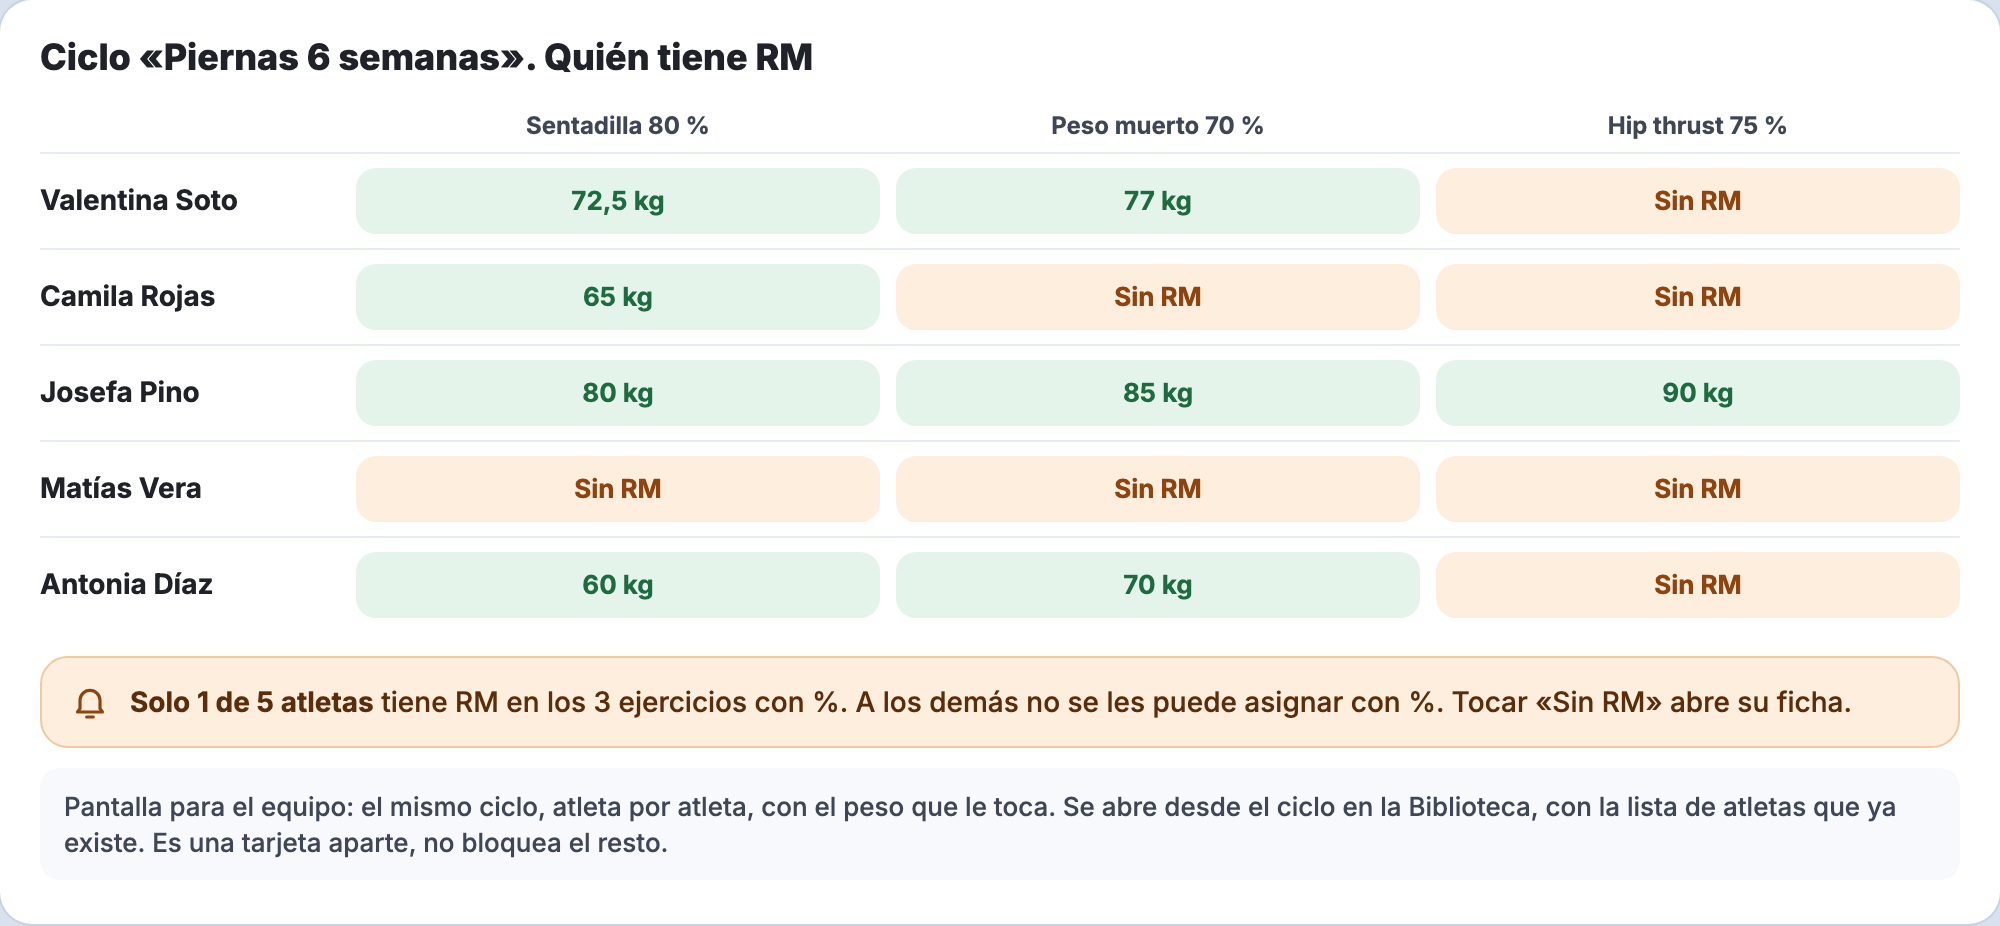
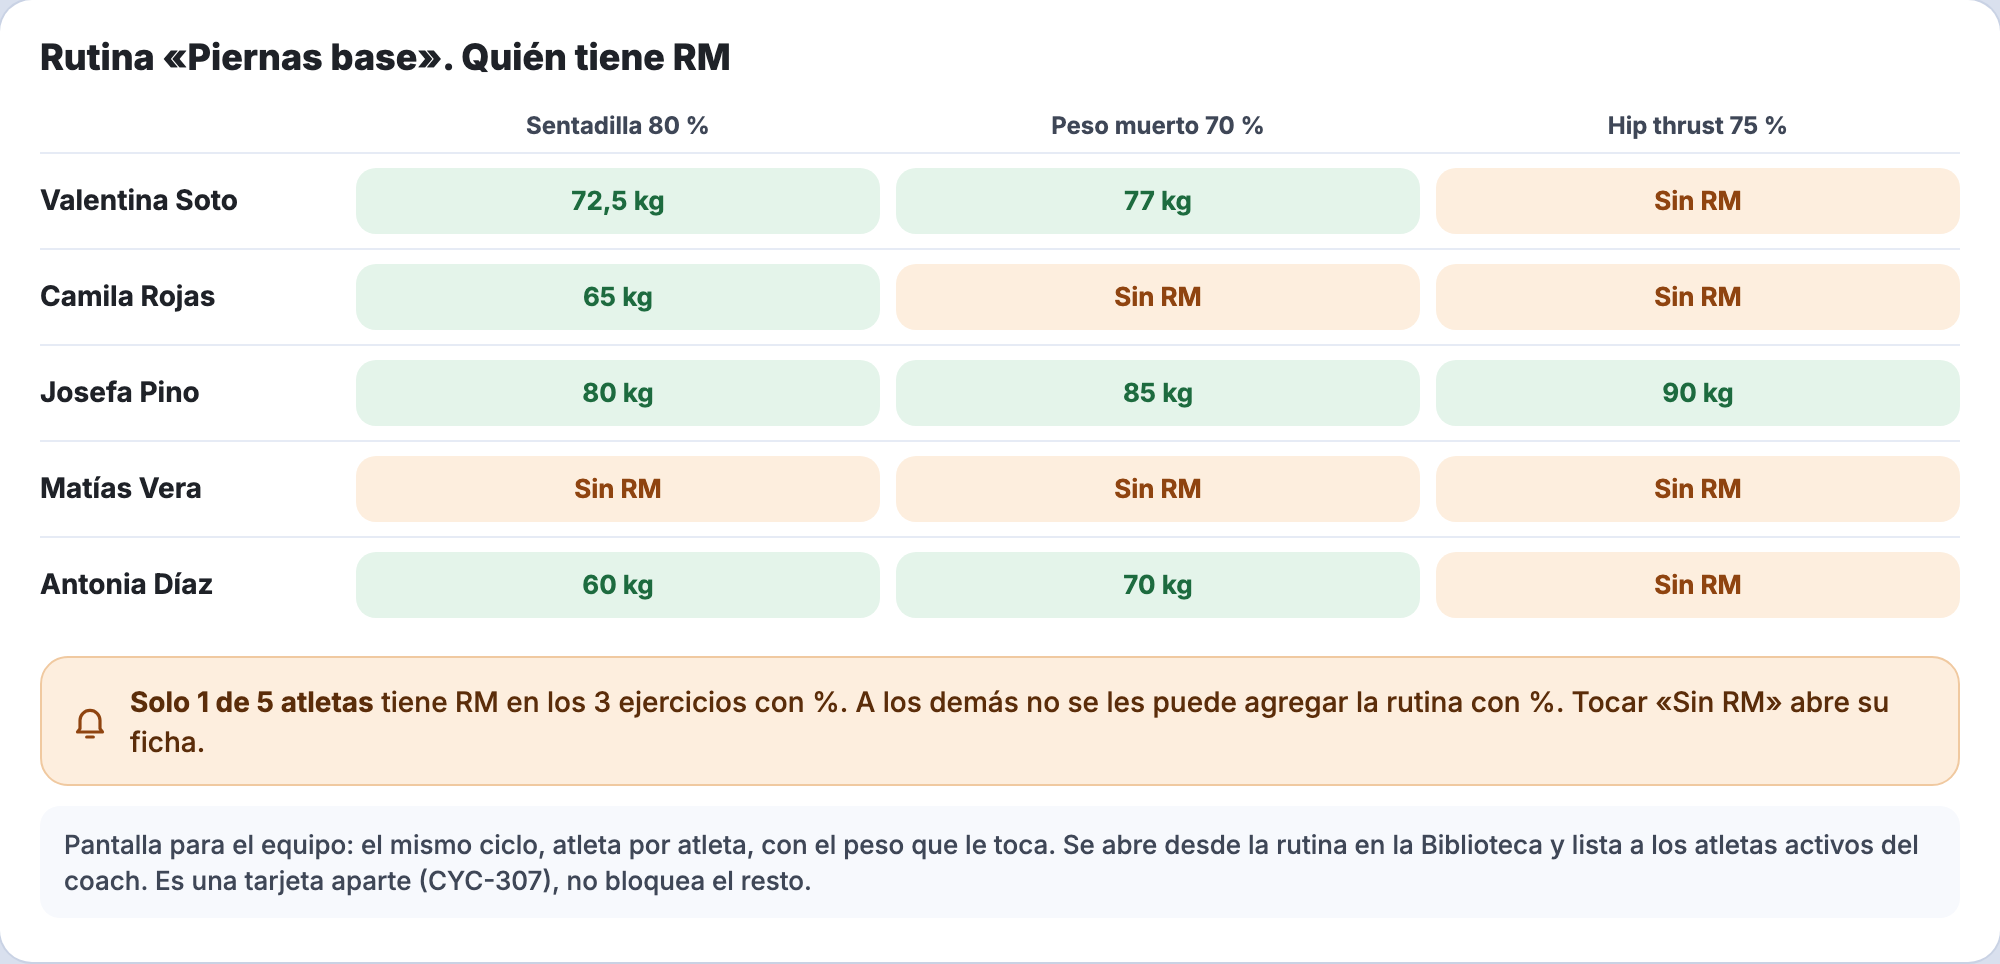
CYC-305: la comprobación de RM va al agregar una rutina a una celda, no al asignar el ciclo

diff --git a/docs/diseno/rm-porcentaje/propuestas.html b/docs/diseno/rm-porcentaje/propuestas.html
@@ -352,7 +352,7 @@ function webB(){
   ${row2('Sentadilla',4,{v:6,u:'r'},{v:80,u:'%'},'',{desc:120,rir:2})}
   ${row2('Hip thrust',3,{v:10,u:'r'},{v:75,u:'%'},'',{desc:90,rir:2})}
  </div>
- <div class="wnote">Una rutina o un ciclo plantilla no tiene atleta: no hay RM contra el cual comprobar, así que «% del RM» se ofrece en cualquier ejercicio con carga y el peso no se muestra. La comprobación llega al asignar (siguiente pantalla) y en la sesión de cada atleta.</div></div>`;
+ <div class="wnote">Una rutina o un ciclo plantilla no tiene atleta: no hay RM contra el cual comprobar, así que «% del RM» se ofrece en cualquier ejercicio con carga y el peso no se muestra. La comprobación llega al agregar la rutina a la sesión de un atleta (pantalla siguiente).</div></div>`;
 }
 function webAT(){
  return `<div class="web" style="min-height:360px"><div class="wt">Rutina «Piernas base»</div>
@@ -398,29 +398,29 @@ function modalCambio(){
 }
 // ---------- WEB: asignar y cobertura ----------
 function asignar(){
- return `<div class="web nar" style="min-height:560px"><div class="wt">Asignar ciclo de la Biblioteca</div>
- <div class="fld"><b>Ciclo</b><div class="uf" style="width:100%"><div class="v" style="justify-content:start;padding:0 12px">Piernas 6 semanas</div><div class="u">${ic('chev')}</div></div></div>
- <div class="fld"><b>Atleta</b><div class="uf" style="width:100%"><div class="v" style="justify-content:start;padding:0 12px">Camila Rojas</div><div class="u">${ic('chev')}</div></div></div>
- <div class="fld"><b>Fecha de inicio</b><div class="f" style="justify-content:start;padding:0 12px;width:200px">24 nov 2026</div></div>
+ return `<div class="web nar" style="min-height:560px"><div class="wt">Agregar rutina a la sesión</div>
+ <div class="fld"><b>Atleta</b><div class="f" style="justify-content:start;padding:0 12px;width:100%">Camila Rojas</div></div>
+ <div class="fld"><b>Rutina</b><div class="uf" style="width:100%"><div class="v" style="justify-content:start;padding:0 12px">Piernas base</div><div class="u">${ic('chev')}</div></div></div>
+ <div class="fld"><b>Celda</b><div class="f" style="justify-content:start;padding:0 12px;width:260px">Semana 2, sesión 1</div></div>
  <div class="alr" style="display:block"><b>Camila no tiene RM en Peso muerto ni en Hip thrust.</b> Sin RM no se puede usar % del RM en esos ejercicios.
-  <div class="rd"><i class="on"></i><span><b>Ingresar su RM ahora</b> Se abre su ficha; al volver, el ciclo se asigna con %.</span></div>
-  <div class="rd"><i></i><span><b>Asignar con peso fijo en esos ejercicios</b></span></div>
+  <div class="rd"><i class="on"></i><span><b>Ingresar su RM ahora</b> Se abre su ficha; al volver, la rutina se agrega con %.</span></div>
+  <div class="rd"><i></i><span><b>Usar peso fijo en esos ejercicios</b></span></div>
   <div style="display:flex;gap:10px;margin:8px 0 0 28px"><div style="flex:1"><div class="flab">Peso muerto</div><div class="f ph2" style="margin-top:4px;justify-content:start;padding:0 10px">kg</div></div><div style="flex:1"><div class="flab">Hip thrust</div><div class="f ph2" style="margin-top:4px;justify-content:start;padding:0 10px">kg</div></div></div></div>
- <span class="bn off" style="height:46px;padding:0 24px;margin-top:12px">Asignar</span>
- <div class="wnote" style="margin-top:12px">«Asignar» se activa cuando cada ejercicio con % tiene RM o un peso fijo. La misma comprobación aparece al agregar una rutina a una celda de la sesión de un atleta.</div></div>`;
+ <span class="bn off" style="height:46px;padding:0 24px;margin-top:12px">Agregar</span>
+ <div class="wnote" style="margin-top:12px">«Agregar» se activa cuando cada ejercicio con % tiene RM o un peso fijo. Asignar el ciclo de la Biblioteca solo copia el ciclo vacío, así que ahí no hay nada que comprobar: el % llega con la rutina.</div></div>`;
 }
 function cobertura(){
  const c=(t,ok)=>`<div class="cv ${ok?'ok':'no'}">${t}</div>`;
  const r=(n,a,b,c3)=>`<div class="cr"><b>${n}</b>${a}${b}${c3}</div>`;
- return `<div class="web" style="min-height:420px"><div class="wt">Ciclo «Piernas 6 semanas». Quién tiene RM</div>
+ return `<div class="web" style="min-height:420px"><div class="wt">Rutina «Piernas base». Quién tiene RM</div>
  <div class="cr h"><span></span><span>Sentadilla 80 %</span><span>Peso muerto 70 %</span><span>Hip thrust 75 %</span></div>
  ${r('Valentina Soto',c('72,5 kg',1),c('77 kg',1),c('Sin RM',0))}
  ${r('Camila Rojas',c('65 kg',1),c('Sin RM',0),c('Sin RM',0))}
  ${r('Josefa Pino',c('80 kg',1),c('85 kg',1),c('90 kg',1))}
  ${r('Matías Vera',c('Sin RM',0),c('Sin RM',0),c('Sin RM',0))}
  ${r('Antonia Díaz',c('60 kg',1),c('70 kg',1),c('Sin RM',0))}
- <div class="alr" style="margin-top:12px">${ic('bell')}<span><b>Solo 1 de 5 atletas</b> tiene RM en los 3 ejercicios con %. A los demás no se les puede asignar con %. Tocar «Sin RM» abre su ficha.</span></div>
- <div class="wnote">Pantalla para el equipo: el mismo ciclo, atleta por atleta, con el peso que le toca. Se abre desde el ciclo en la Biblioteca, con la lista de atletas que ya existe. Es una tarjeta aparte, no bloquea el resto.</div></div>`;
+ <div class="alr" style="margin-top:12px">${ic('bell')}<span><b>Solo 1 de 5 atletas</b> tiene RM en los 3 ejercicios con %. A los demás no se les puede agregar la rutina con %. Tocar «Sin RM» abre su ficha.</span></div>
+ <div class="wnote">Pantalla para el equipo: el mismo ciclo, atleta por atleta, con el peso que le toca. Se abre desde la rutina en la Biblioteca y lista a los atletas activos del coach. Es una tarjeta aparte (CYC-307), no bloquea el resto.</div></div>`;
 }
 // ---------- WEB: atleta ----------
 function webAtleta(){
@@ -480,9 +480,9 @@ add('r2','2 · Coach en la web: elegir «peso fijo» o «% del RM» por fila',[
  ['A · Con un atleta en la vista previa: «% del RM» se desactiva donde no hay RM (recomendada)',webA()],
  ['Rutina o plantilla sin atleta: «% del RM» se ofrece y se comprueba al asignar',webB()],
  ['Ejercicio por tiempo: la carga queda en kg (convive con CYC-296)',webAT()]]);
-add('r3','3 · Coach en la web: asignar con atletas que no tienen todos los RM',[
- ['Asignar un ciclo a un atleta sin RM en algunos ejercicios: ingresar el RM o usar peso fijo',asignar()],
- ['Equipo: quién tiene RM en cada ejercicio con %',cobertura()]]);
+add('r3','3 · Coach en la web: agregar una rutina a atletas que no tienen todos los RM',[
+ ['Agregar una rutina a la sesión de un atleta sin RM en algunos ejercicios: ingresar el RM o usar peso fijo',asignar()],
+ ['Equipo: quién tiene RM en cada ejercicio de una rutina con %',cobertura()]]);
 add('r4','4 · Atleta en la app',[
  ['Hoy: el peso ya calculado',hoy()],
  ['Registro de una serie, con RM',logRM()],

diff --git a/docs/diseno/rm-porcentaje/README.md b/docs/diseno/rm-porcentaje/README.md
@@ -21,7 +21,7 @@ updated: 2026-11-20
 
 - La carga es un peso fijo y opcional: `RoutineExercise.defaultWeight`, `SessionExercise.targetWeight`, `ExerciseLog.actualWeight` (siempre en kg; nulo = peso corporal). No existe RM ni carga relativa.
 - Una rutina es del coach, no de un atleta. Al asignarla a una celda de un ciclo, sus filas se **copian** a `SessionExercise`, que sí pertenece al ciclo de un atleta ([`sessions.service.ts`](../../../apps/api/src/sessions/sessions.service.ts) línea 92).
-- Hoy un ciclo de la Biblioteca se asigna **a un atleta a la vez** (selector de atleta y fecha). Este diseño no agrega asignación masiva: «varios atletas» significa el mismo ciclo asignado a cada uno, y cada uno recibe su propio peso.
+- Hoy un ciclo de la Biblioteca se asigna **a un atleta a la vez** y solo copia el ciclo **vacío** (`cycles.service.ts`, `assign`): las sesiones se arman después, agregando una rutina a una celda de la sesión de ese atleta. Por eso el % vive en las **rutinas** y en las **sesiones de un atleta**, no en el ciclo plantilla. «Varios atletas» significa la misma rutina agregada a la sesión de cada uno, y cada uno recibe su propio peso. No se agrega asignación masiva.
 - La fila del constructor tiene Ser., Reps, Carga, Desc. y RIR ([`ExerciseRowEditor.tsx`](../../../apps/web/src/components/builder/ExerciseRowEditor.tsx)). La app prellena el peso con `targetWeight` y muestra «4 × 6 · 60 kg» en Hoy.
 - Los ejercicios de peso corporal (`isBodyweight`) no llevan carga.
 - La propuesta de CYC-296 (ejercicios por tiempo, PR #257) sigue abierta: aquí se diseña para que ambas convivan.
@@ -31,8 +31,8 @@ updated: 2026-11-20
 | # | Tema | Recomendación | Alternativa |
 |---|---|---|---|
 | 1 | Constructor con un atleta en la vista previa | **A.** La celda de Carga lleva el selector «kg / % RM» (mismo patrón que «reps / tiempo» de CYC-296). Con un atleta elegido, aparece la columna «Peso de Valentina» y **«% del RM» queda desactivado** en los ejercicios donde no tiene RM, con la razón y la salida: «Ingresar el RM de Valentina». | Sin vista previa del atleta (menos claro). |
-| 2 | Rutinas y ciclos plantilla (sin atleta) | **«% del RM» se ofrece en cualquier ejercicio con carga**, sin peso calculado. La comprobación pasa al asignar y a la sesión de cada atleta. | Exigir un atleta de referencia para poder usar %: frena al coach que arma una plantilla para varios. |
-| 3 | Asignar a un atleta que no tiene todos los RM | **«Asignar» se desactiva** hasta resolver cada ejercicio con %: ingresar el RM (se abre su ficha) o **asignar con peso fijo** en esos ejercicios, con su kg. Misma comprobación al agregar una rutina a una celda de su sesión. | Asignar igual sin peso (contradice la regla 2). |
+| 2 | Rutinas y ciclos plantilla (sin atleta) | **«% del RM» se ofrece en cualquier ejercicio con carga**, sin peso calculado. La comprobación pasa al agregar la rutina a la sesión de cada atleta. | Exigir un atleta de referencia para poder usar %: frena al coach que arma una plantilla para varios. |
+| 3 | Agregar una rutina a la sesión de un atleta que no tiene todos los RM | **«Agregar» se desactiva** hasta resolver cada ejercicio con %: ingresar el RM (se abre su ficha) o **usar peso fijo** en esos ejercicios, con su kg. La API responde 422 con la lista y acepta `fixedWeights`. Asignar el ciclo plantilla no copia sesiones: no hay nada que comprobar ahí. | Agregar la rutina sin el % (la sesión queda sin carga en esos ejercicios). |
 | 4 | Ejercicio por tiempo | La carga queda en **kg**; «% del RM» se apaga. | Permitir % en tiempo (no tiene sentido). |
 | 5 | Quién registra el RM | **Coach siempre**, desde la ficha del atleta (sección RM) o desde el constructor. **Decisión abierta: ¿el atleta también?** Opción A: sí, desde Cuenta › Mis RM, con origen «Atleta» visible para el coach. Opción B: solo el coach; el atleta ve una lista de solo lectura. | — |
 | 6 | Cómo se actualiza | Cada cambio es un **registro nuevo**; el vigente es el más reciente y el anterior queda en el historial, como las series. | Un solo valor editable (se pierde el historial). |
@@ -47,12 +47,12 @@ updated: 2026-11-20
 |---|---|---|
 | Constructor, con un atleta en la vista previa | `80 % RM ⌄` y «72,5 kg» | «% del RM» desactivado con la razón; peso fijo; «Ingresar el RM de…» |
 | Constructor, rutina o plantilla sin atleta | `80 % RM ⌄`, sin peso | No aplica: no hay atleta |
-| Asignar un ciclo a un atleta | Se asigna con % | «Asignar» desactivado hasta ingresar su RM o poner peso fijo |
+| Agregar una rutina a una celda de su sesión | Se agrega con % | «Agregar» desactivado hasta ingresar su RM o poner peso fijo |
 | Hoy (app y web) | `4 × 6 · 72,5 kg` | El ejercicio llega con peso fijo (no puede llegar un % sin RM) |
 | Registro de la serie | Meta «6 × 72,5 kg», chip «80 % de tu RM de 90 kg», peso prellenado | Como hoy, con el peso fijo |
 | Serie guardada | `6 reps · 72,5 kg` | Lo que registró el atleta |
 | Ficha del atleta (web) | Tabla «Con RM»: RM, fecha, origen y máximo levantado | Tabla «Sin RM» con «Agregar RM» |
-| Ciclo en la Biblioteca (web) | Matriz atletas × ejercicios con %: «72,5 kg» | «Sin RM» |
+| Rutina en la Biblioteca (web) | Matriz atletas activos × ejercicios con %: «72,5 kg» | «Sin RM» |
 | Cuenta › Mis RM (app) | Lista con origen y fecha; opción A suma «Agregar RM» | Opción B: solo lectura |
 
 Las pantallas nuevas cuidan la regla de no poner líneas grises bajo los títulos: el contexto va en columnas, etiquetas o el propio dato. No hay pantallas de Resumen.
@@ -110,7 +110,7 @@ Reglas del modelo:
 
 - **Peso fijo o %, no ambos** (CHECK en la base y validación en la API).
 - **Sin RM no se guarda un %.** En un `SessionExercise` (que ya tiene atleta), la API rechaza `targetPercentRm` si el atleta no tiene RM en ese ejercicio. En una rutina o ciclo plantilla (sin atleta) sí se guarda, y la respuesta lleva `rmStatus = needs_athlete`.
-- **Al asignar o copiar a una sesión**, la API devuelve la lista de ejercicios con % donde el atleta no tiene RM, y no copia hasta que cada uno traiga un peso fijo (`weightKg` por fila) o el RM exista.
+- **Al agregar una rutina a una celda**, si el atleta no tiene RM en algún ejercicio con %, la API no crea la sesión: responde 422 con `missing:[{exerciseId,name,percent}]`. Se resuelve registrando el RM o mandando `fixedWeights:[{exerciseId, weightKg}]` (queda como peso fijo).
 - **El % solo con `measure = reps`**; la validación se agrega cuando CYC-297 se mezcle.
 - **`AthleteMax` es solo-agregar.** El RM vigente de un atleta y un ejercicio es el de `measuredAt` más reciente (empate: `createdAt` más reciente). Un error se corrige con otro registro. Nunca se borra, así que un % ya guardado no pierde su RM.
 - **Índice** por `(athleteId, exerciseId, measuredAt)`. Lectura y escritura: control R5 coach–atleta; el atleta solo escribe los suyos (si la opción A se aprueba).
@@ -141,11 +141,11 @@ flowchart TD
 | 1 | Migración aditiva: tabla `AthleteMax`, columnas `defaultPercentRm`, `targetPercentRm`, `frozenRmKg` (respaldo antes) | `apps/api/prisma` |
 | 2 | Leer, agregar y actualizar el RM de un atleta (coach) y el propio (atleta, si se aprueba la opción A); historial; lista «con RM / sin RM» con el máximo levantado de referencia | `apps/api` |
 | 3 | `percentRm` en rutinas y en agregar o editar ejercicio de sesión; validación (1 a 100, no junto a peso fijo, **rechazar si el atleta no tiene RM**) | `apps/api/src/routines`, `sessions` |
-| 4 | Asignar ciclo y agregar rutina a una celda: detectar ejercicios con % sin RM y aceptar un peso fijo por fila como alternativa | `apps/api/src/cycles`, `sessions` |
+| 4 | Agregar rutina a una celda: 422 con los ejercicios con % sin RM y `fixedWeights` como alternativa (hecho en CYC-306) | `apps/api/src/sessions` |
 | 5 | Peso calculado en la estructura de sesión (`resolvedWeightKg`, `rmStatus`, `exercisesMissingRm`); congelar al primer registro; redondeo a 2,5 kg | `apps/api/src/sessions`, `execution` |
-| 6 | Cobertura por ciclo plantilla (atletas con copia × ejercicios con %): tarjeta aparte | `apps/api/src/cycles` |
+| 6 | Cobertura por **rutina** (atletas activos × ejercicios con %): tarjeta aparte (CYC-307) | `apps/api/src/routines` |
 | 7 | Constructor web: selector «kg / % RM», vista previa con un atleta, «% del RM» desactivado con razón y «Ingresar el RM de…» | `apps/web` |
-| 8 | Ficha del atleta: sección RM con máximo levantado; formulario de RM; bloqueo y alternativas al asignar | `apps/web` |
+| 8 | Ficha del atleta: sección RM con máximo levantado; formulario de RM; bloqueo y alternativas al agregar una rutina a una celda | `apps/web` |
 | 9 | App del atleta: peso prellenado, Cuenta › Mis RM (y «Ingresar mi RM» si se aprueba la opción A) | `apps/mobile` |
 | 10 | Helper compartido para «72,5 kg» y «80 % de tu RM de 90 kg» | `packages/shared` |
 | 11 | Dos fichas de novedad | ver abajo |
@@ -153,12 +153,12 @@ flowchart TD
 
 ## Fichas de novedad (popup)
 
-Dos fichas: cada rol la ve en su plataforma. Textos de hasta 140 caracteres (miden 68, 65, 85, 87 y 66).
+Dos fichas: cada rol la ve en su plataforma. Textos de hasta 140 caracteres (miden 68, 65, 99, 87 y 66).
 
 - `coach-rm-percent@1` (web, coach), 3 slides:
   1. «Carga como % del RM»: «Elige % del RM en cada fila y Cycles calcula el peso de cada atleta.» Demo `rm-percent-row`.
   2. «El RM de cada atleta»: «Regístralo en su ficha, con fecha. Verás en qué ejercicios falta.» Demo `rm-athlete-sheet`.
-  3. «Revisa antes de asignar»: «Al asignar un ciclo, ves en qué ejercicios el atleta no tiene RM y decides qué hacer.» Demo `rm-assign-check`.
+  3. «Revisa antes de agregar»: «Al agregar una rutina a una sesión, ves qué ejercicios no tienen RM del atleta y decides qué hacer.» Demo `rm-assign-check`.
 - `athlete-rm-percent@1` (app y web, atleta), 2 slides:
   1. «Tu peso, calculado»: «Tu coach puede indicar un % de tu RM. Verás el peso en kg ya calculado para cada serie.» Demo `athlete-rm-percent`.
   2. «Guarda tu RM»: «Si falta tu RM, ingrésalo desde la sesión o desde Cuenta › Mis RM.» Demo `athlete-rm-enter`. **Solo con la opción A**; con la opción B esta slide se cambia por «Tu RM, a la vista» y la ficha queda en una sola slide.
@@ -186,14 +186,13 @@ Ya decidido: modelo, % de 1 a 100, «% del RM» desactivado sin RM, máximo leva
 
 1. **¿El atleta también registra su propio RM** (opción A, con origen «Atleta» visible para el coach) **o solo el coach** (opción B, el atleta lo ve en solo lectura)? Decisión abierta.
 2. ¿Redondeo al 2,5 kg más cercano? (Quedó por defecto, sin confirmar.)
-3. En rutinas y plantillas sin atleta, ¿se ofrece «% del RM» siempre y se comprueba al asignar? (Recomendado.)
-4. Al asignar un ciclo a un atleta sin todos los RM, ¿«Asignar» se desactiva hasta ingresar el RM o poner un peso fijo?
+3. En rutinas sin atleta, ¿se ofrece «% del RM» siempre y se comprueba al agregar la rutina a la sesión de un atleta? (Recomendado.)
+4. Al agregar una rutina a un atleta sin todos los RM, ¿«Agregar» se desactiva hasta ingresar el RM o poner un peso fijo?
 5. ¿El peso se actualiza solo con el RM nuevo hasta que el atleta empieza el ejercicio, y después se congela?
 6. ¿Se muestra el «máximo levantado» en la ficha y en el formulario de RM, solo de referencia?
 7. ¿Se avisa al atleta cuando el coach registra o cambia su RM?
 8. ¿Solo los ejercicios que se cargan pueden tener RM (no peso corporal ni por tiempo)?
-9. Al asignar a un atleta sin todos los RM, ¿se **bloquea** «Asignar» (como dibuja el diseño) o se **asigna sin el %** y se avisa qué ejercicios quedaron sin carga? La API de CYC-306 (PR #259) ya hace lo segundo: responde `percentNotApplied` con la lista. Recomendado: asignar sin el %, con el aviso antes de asignar («Camila no tiene RM en…») y un enlace para ingresarlo; no frena al coach y respeta la regla de que no se guarda un % sin RM. Si se aprueba, se ajusta la pantalla de asignar.
 
 ## Contrato final de la API (CYC-306, PR #259)
 
-Por ejercicio de sesión: `targetPercentRm` (1 a 100 o nulo), `targetWeight`, `resolvedWeightKg` y `rmStatus` = `ok` | `missing` | `needs_athlete` | nulo (nulo = no lleva %). Guardar un % sin RM responde 400 («Este atleta no tiene RM en «X»…»). RM: coach `GET /athletes/:id/rm` → `{withMax, withoutMax}`; `GET /athletes/:id/rm/:exerciseId` → `{exercise, current, history, maxLiftedKg}`; `POST` con `{weightKg, measuredAt?}`; atleta `GET /me/rm[/:exerciseId]`. **Por ahora el atleta no escribe RM** (equivale a la opción B). Poner un peso fijo quita el %. Sin cobertura por plantilla (CYC-307).
+Por ejercicio de sesión: `targetPercentRm` (1 a 100 o nulo), `targetWeight`, `resolvedWeightKg` y `rmStatus` = `ok` | `missing` | `needs_athlete` | nulo (nulo = no lleva %). Guardar un % sin RM en la sesión de un atleta responde 422 con `missing:[{exerciseId,name}]`; una rutina sin atleta lo guarda libre (`needs_athlete`). Agregar una rutina con % a una celda sin RM no crea la sesión (422) hasta registrar el RM o mandar `fixedWeights`. RM: coach `GET /athletes/:id/rm` → `{withMax, withoutMax}`; `GET /athletes/:id/rm` trae por ejercicio `maxLifted:{weightKg,reps,loggedAt}`; `GET /athletes/:id/rm/:exerciseId` → `{exercise, current, history, maxLiftedKg}`; `POST` con `{weightKg, measuredAt?}`; atleta `GET /me/rm[/:exerciseId]`. **Por ahora el atleta no escribe RM** (equivale a la opción B). Poner un peso fijo quita el %. Sin cobertura (CYC-307).
